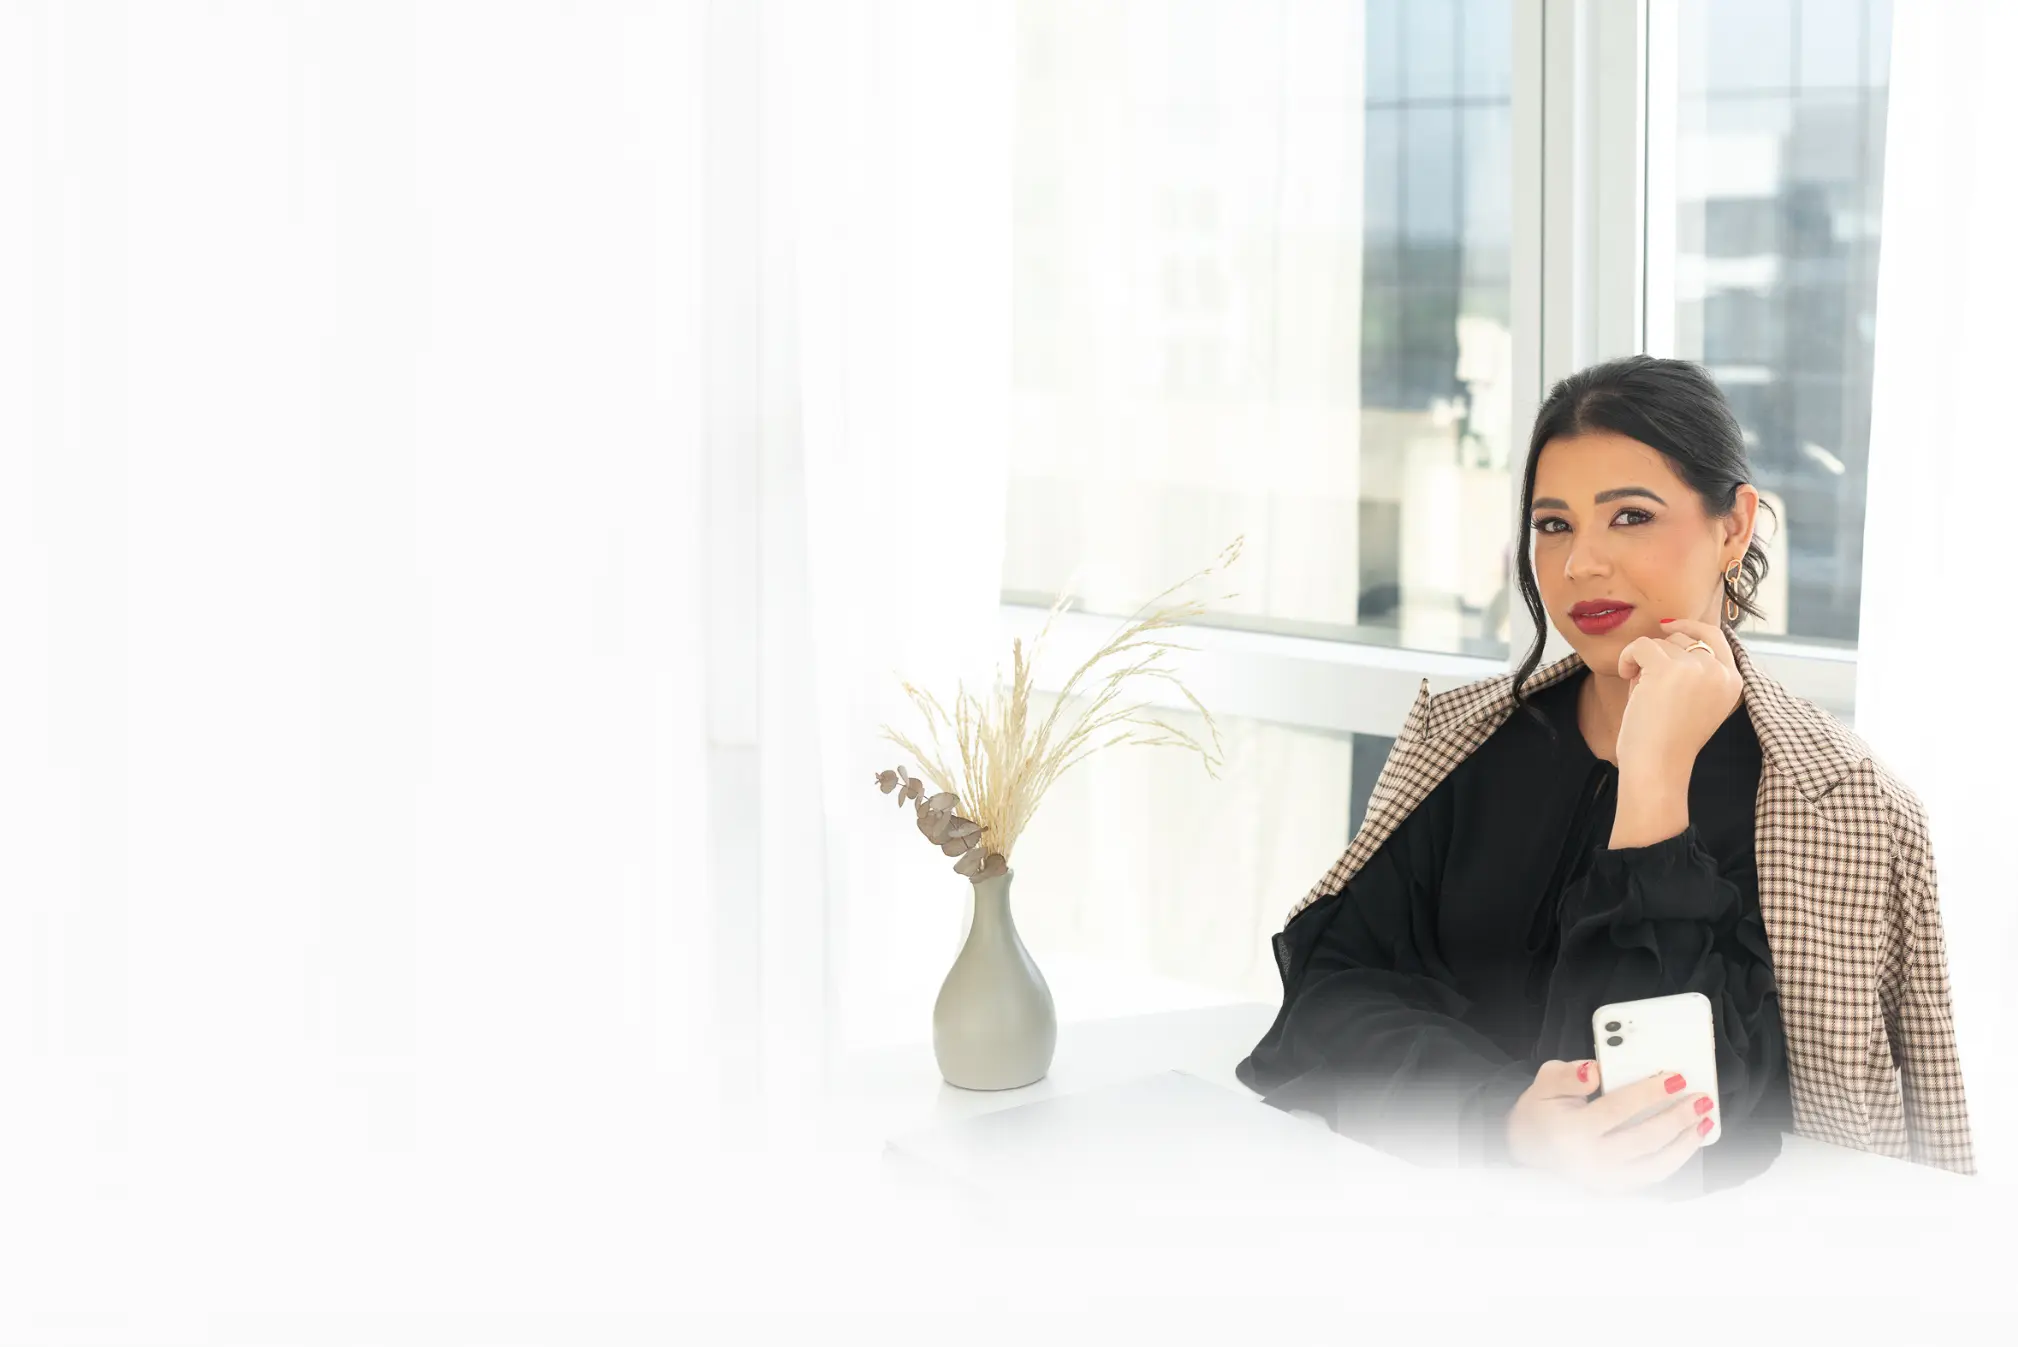
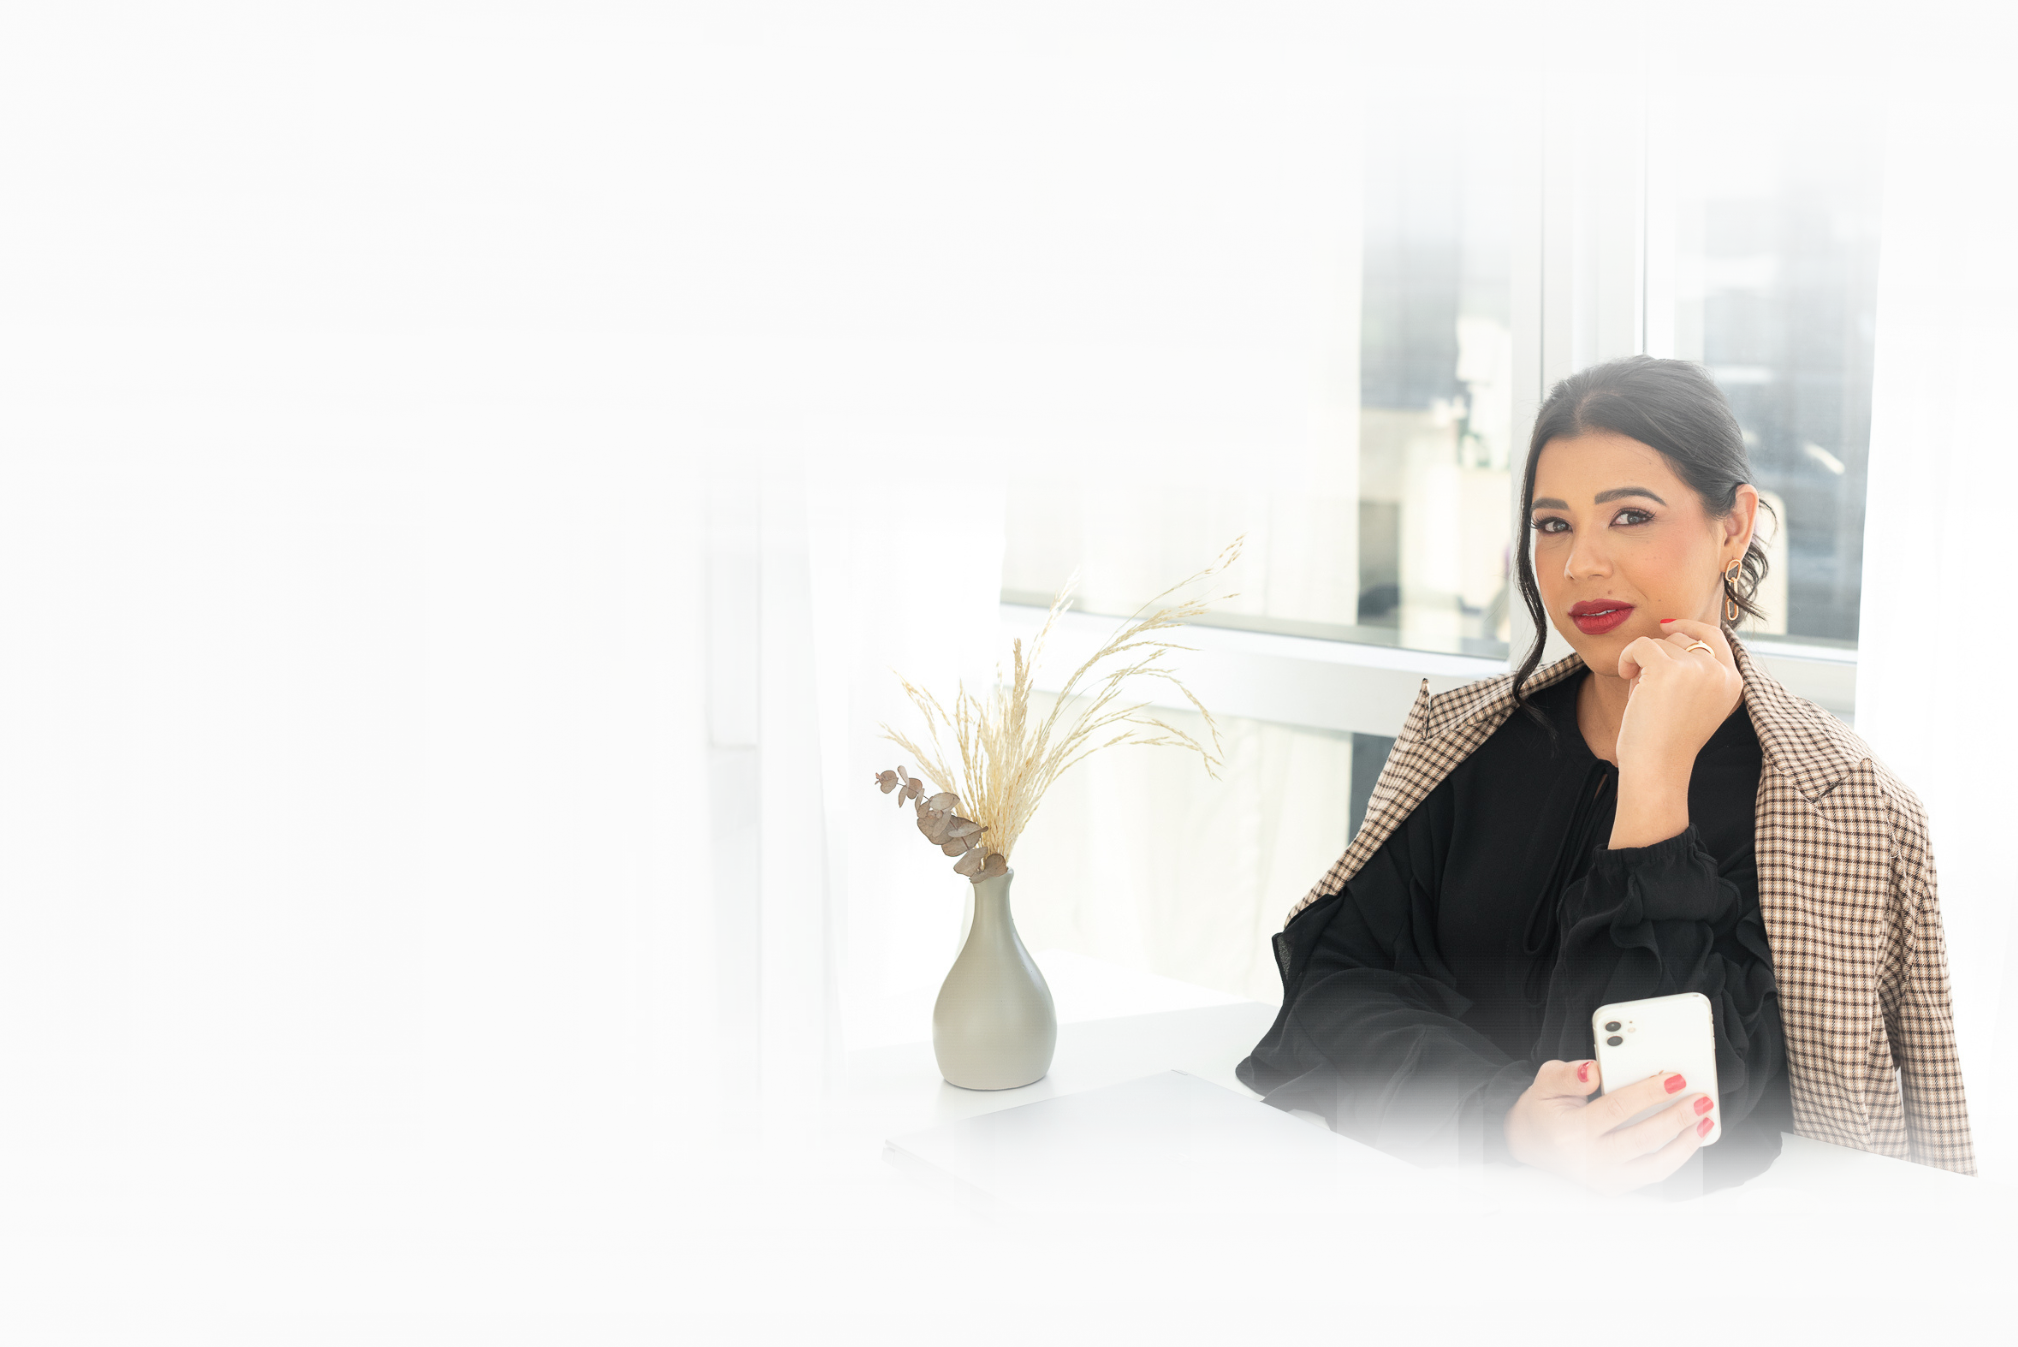
Feat: create faq section and footer

Changed region(s): [[0.6556, 0.0, 0.9366, 0.4053]]

diff --git a/index.html b/index.html
@@ -6,6 +6,9 @@
   <link rel="stylesheet" href="styles.css">
   <link rel="preconnect" href="https://fonts.googleapis.com">
   <link rel="preconnect" href="https://fonts.gstatic.com" crossorigin>
+  <link rel="shortcut icon" href="./assets/Logo Lorena Santos.svg" type="image/x-icon">
+  <link href="https://cdn.jsdelivr.net/npm/bootstrap@5.3.3/dist/css/bootstrap.min.css" rel="stylesheet" integrity="sha384-QWTKZyjpPEjISv5WaRU9OFeRpok6YctnYmDr5pNlyT2bRjXh0JMhjY6hW+ALEwIH" crossorigin="anonymous">
+  <script src="https://cdn.jsdelivr.net/npm/bootstrap@5.3.3/dist/js/bootstrap.bundle.min.js" integrity="sha384-YvpcrYf0tY3lHB60NNkmXc5s9fDVZLESaAA55NDzOxhy9GkcIdslK1eN7N6jIeHz" crossorigin="anonymous"></script>
   <link href="https://fonts.googleapis.com/css2?family=Zain:wght@200;300;400;700;800;900&display=swap" rel="stylesheet">
   <link rel="stylesheet" href="https://cdn.jsdelivr.net/npm/bootstrap-icons@1.11.3/font/bootstrap-icons.min.css">
   <title>Lorena Santos Consultoria</title>
@@ -13,7 +16,8 @@
 <body>
   <section class="hero-section">
     <div class="container">
-      <h1>Lorena Santos</h1>
+      <!-- <h1>Lorena Santos</h1> -->
+      <img src="./assets/Logo Lorena Santos.svg" alt="" id="logo">
       <h3>A partir de agora, seu maior problema será ter clientes demais.</h3>
       <p>Aumente o seu número de vendas e seja a primeira opção dos seus clientes, através de uma parceria duradoura eficaz.</p>
       <button type="button" class="btn-cta">Quero mais resultados</button>
@@ -151,8 +155,155 @@
     <p>Além da atuação no mercado digital, atuou também por mais de 10 anos no mercado varejista, colaborando com empresas multinacionais, onde durante esse período estudou e aplicou as técnicas do Marketing Digital. Tais experiências consolidam sua competência na área de vendas, marketing e pessoas.
       Formada em programação neurolinguística, também atuou nos cargos de liderança, o que traduz em competência sobre o que diz respeito ao comportamento humano.
       <strong>TRANSPARÊNCIA, RESPONSABILIDADE E EVOLUÇÃO CONTÍNUA</strong> são os valores norteiam todas as suas ações. Praticante de esportes, acredita que a mesma vitalidade e energia envolvida nos esportes são aplicadas também nos negócios, o que faz com que tenha os resultados gerados.
-      </p>
+    </p>
+    <img src="assets//quem-e-lorena-santos.webp" alt="Lorena Santos de roupa preta, com um blaze xadrez sobreposto aos ombros olhando para a câmera com o celular em mãos" id="who-is-lorena-santos">
   </section>
 
+  <section class="section faq">
+    <h2>Perguntas frequentes</h2>
+    <div class="accordion accordion-flush" id="accordionFlushExample">
+      <div class="accordion-item">
+        <h2 class="accordion-header">
+          <button class="accordion-button collapsed" type="button" data-bs-toggle="collapse" data-bs-target="#flush-collapseOne" aria-expanded="false" aria-controls="flush-collapseOne">
+            Será que preciso mesmo fazer anúncios online?
+          </button>
+        </h2>
+        <div id="flush-collapseOne" class="accordion-collapse collapse" data-bs-parent="#accordionFlushExample">
+          <div class="accordion-body">Primeiramente vamos entender o conceito por trás dos Anúncios Online (ou também conhecido como Tráfego Pago).
+            De forma simples, na internet existe milhares de pessoas navegando a todo momento e isso é o que chamamos de tráfego.
+            O Tráfego pago tem como objetivo direcionar as suas campanhas para as pessoas certas que estão navegando online para que elas possam realizar as ações que definimos, seja comprar um produto, entrar em contato, agendamento..
+            <br><br>
+            Certamente você quer parar de perder dinheiro e levar as pessoas certas para o seu negócio, não é mesmo?</div>
+        </div>
+      </div>
+
+      <div class="accordion-item">
+        <h2 class="accordion-header">
+          <button class="accordion-button collapsed" type="button" data-bs-toggle="collapse" data-bs-target="#flush-collapseTwo" aria-expanded="false" aria-controls="flush-collapseTwo">
+            Preciso aparecer nas redes sociais?
+          </button>
+        </h2>
+        <div id="flush-collapseTwo" class="accordion-collapse collapse" data-bs-parent="#accordionFlushExample">
+          <div class="accordion-body">
+            É preciso levar em consideração que a forma de consumo mudou desde que a internet se tornou presente durante todos os minutos de nosso dia a dia.
+            <br><br>
+            Quando se trata de construir um negócio de sucesso, é crucial encontrar plataformas em que seu público esteja presente.
+            <br><br>
+            E quanto mais você se conectar, se relacionar com o seu público, maiores são o reconhecimento da sua marca, além de você construir o que é mais valioso: conhecer as preferências do seu público.
+          </div>
+        </div>
+      </div>
+
+      <div class="accordion-item">
+        <h2 class="accordion-header">
+          <button class="accordion-button collapsed" type="button" data-bs-toggle="collapse" data-bs-target="#flush-collapseThree" aria-expanded="false" aria-controls="flush-collapseThree">
+            O que é necessário para começar a investir em anúncios?
+          </button>
+        </h2>
+        <div id="flush-collapseThree" class="accordion-collapse collapse" data-bs-parent="#accordionFlushExample">
+          <div class="accordion-body">
+            O primeiro passo é ter clareza sobre a sua meta e/ou objetivos do seu negócio. A partir de então, é hora de alinhar as expectativas comigo, a sua gestora de tráfego, para que eu possa ter acesso a todas as informações e documentos da sua empresa e então começar a traçar as estratégias direcionadas para o seu público.
+          </div>
+        </div>
+      </div>
+
+      <div class="accordion-item">
+        <h2 class="accordion-header">
+          <button class="accordion-button collapsed" type="button" data-bs-toggle="collapse" data-bs-target="#flush-collapseFour" aria-expanded="false" aria-controls="flush-collapseFour">
+            Preciso ter um site para anunciar?
+          </button>
+        </h2>
+        <div id="flush-collapseFour" class="accordion-collapse collapse" data-bs-parent="#accordionFlushExample">
+          <div class="accordion-body">
+            Idealmente sim. Toda empresa que possui um site gera muito mais confiança e credibilidade com seus clientes, além de poder contar um pouco mais da história da empresa, você tem a oportunidade de direcionar o seu cliente para outras informações importantes.
+            <br><br>
+            Caso a sua empresa ainda não tenha um site próprio existe ainda a possibilidade de Landing Pages que são muito eficientes para gerar conversões.
+          </div>
+        </div>
+      </div>
+
+      <div class="accordion-item">
+        <h2 class="accordion-header">
+          <button class="accordion-button collapsed" type="button" data-bs-toggle="collapse" data-bs-target="#flush-collapseFive" aria-expanded="false" aria-controls="flush-collapseFive">
+            Mas afinal, qual a diferença entre um site e uma Landing Page? Qual é melhor?
+          </button>
+        </h2>
+        <div id="flush-collapseFive" class="accordion-collapse collapse" data-bs-parent="#accordionFlushExample">
+          <div class="accordion-body">
+            Existem alguma diferenças entre um site "convencional", também conhecido como site institucional, para a Landing Page, desde o objetivo até a estrutura.
+            <br><br>
+            Um site é uma ferramenta de comunicação da empresa como o público, toda sua estrutura é feita para suprir essa necessidade.
+            <br><br>
+            Já uma landing page é estrutura apenas com elementos essenciais e estratégicos de comunicação persuasiva direcionada para um objetivo específico.
+            <br><br>
+            Site e landing page são ferramentas diferentes que não substituiem umas as outras. Elas são complementares e atendem a demandas diferentes de uma estratégia de marketing digital.
+            <br><br>
+            Por isso, se você quer resultados satisfatórios para os diferentes indicadores de marketing digital, considere a criação de um site e utilize landing pages de acordo com a sua estratégia.
+          </div>
+        </div>
+      </div>
+
+      <div class="accordion-item">
+        <h2 class="accordion-header">
+          <button class="accordion-button collapsed" type="button" data-bs-toggle="collapse" data-bs-target="#flush-collapseSix" aria-expanded="false" aria-controls="flush-collapseSix">
+            Qual a melhor opção para o meu negócio? Facebook Ads ou Google Ads?
+          </button>
+        </h2>
+        <div id="flush-collapseSix" class="accordion-collapse collapse" data-bs-parent="#accordionFlushExample">
+          <div class="accordion-body">
+            Na maioria dos negócios digitais as duas são necessárias, pois uma complementa a outra, porém é preciso estar atento uma vez que cada plataforma possui públicos e funcionalidades diferentes.
+            <br><br>
+            Sendo assim, a melhor plataforma é aquela que conecta com o seu público.
+          </div>
+        </div>
+      </div>
+
+      <div class="accordion-item">
+        <h2 class="accordion-header">
+          <button class="accordion-button collapsed" type="button" data-bs-toggle="collapse" data-bs-target="#flush-collapseSeven" aria-expanded="false" aria-controls="flush-collapseSeven">
+            Quando vou começar a ver o resultado das minhas campanhas?
+          </button>
+        </h2>
+        <div id="flush-collapseSeven" class="accordion-collapse collapse" data-bs-parent="#accordionFlushExample">
+          <div class="accordion-body">
+            Como acontece com qualquer outra estratégia, existe uma curva de aprendizagem e no caso de anúncios online são realizados muitos testes antes de termos uma campanha extremamente performática.
+            <br><br>
+            De modo geral, uma estratégia de anúncios online costuma ter seu amadurecimento entre 3 e 6 meses.
+          </div>
+        </div>
+      </div>
+
+      <div class="accordion-item">
+        <h2 class="accordion-header">
+          <button class="accordion-button collapsed" type="button" data-bs-toggle="collapse" data-bs-target="#flush-collapseEight" aria-expanded="false" aria-controls="flush-collapseEight">
+            Qual o valor mínimo de investimento?
+          </button>
+        </h2>
+        <div id="flush-collapseEight" class="accordion-collapse collapse" data-bs-parent="#accordionFlushExample">
+          <div class="accordion-body">
+            É importante ter em mente que o retorno das campanhas serão diretamente proporcionais ao valor investido, uma vez que com um investimento maior mais plataformas entregarão seu conteúdo para pessoas cada vez mais selecionadas.
+            <br><br>
+            O valor mínimo recomendado é de <strong>R$ 30,00 por dia</strong>, ou seja, <strong>R$ 900,00 por mês</strong> somente para as plataformas de anúncios, não inclusos os serviços de gestão de anúncios.
+            <br><br>
+            Se você acredita no seu negócio, a pergunta que deve ser feita é: Qual o máximo que posso investir para obter os melhores resultados?
+          </div>
+        </div>
+      </div>
+
+    </div>
+
+    <h3>ELEVE OS RESULTADOS DA SUA EMPRESA E TENHA MAIS LUCRO ATRAVÉS DAS ESTRATÉGIAS DIGITAIS.</h3>
+    <button type="button" class="btn-cta">Quero mais resultados</button>
+  </section>
+
+  <footer>
+    <img src="./assets/Logo Lorena Santos Footer.svg" alt="Logo Lorena Santos Tráfego Pago" id="logo-footer">
+    <p>Copyright &copy; 2024 - Lorena Santos. Todos os direitos reservados.</p>
+    <div>
+      <i class="bi bi-whatsapp"></i>
+      <i class="bi bi-envelope-at"></i>
+      <i class="bi bi-instagram"></i>
+    </div>
+  </footer>
 </body>
 </html>

diff --git a/styles.css b/styles.css
@@ -11,6 +11,7 @@ body{
   height: 100dvh;
   background-color: #fbfbfb;
   overflow-x: hidden;
+  user-select: none;
 }
 
 .hero-section{
@@ -313,7 +314,12 @@ body{
   .container{
     justify-content: flex-end;
     gap: 35px;
-    padding-top: 35vh;
+    padding-top: 30vh;
+  }
+
+  .container #logo{
+    width: 45%;
+    margin: 0 auto;
   }
 
   .container h1{
@@ -475,7 +481,7 @@ body{
 
   @keyframes slideUp {
     from{
-      transform: translateY(100%);
+      transform: translateY(120%);
       opacity: 0;
     }
     to{
@@ -525,8 +531,61 @@ body{
 
   .lorena-santos p,
   .lorena-santos strong{
+    width: 95%;
     font-size: 2rem;
-    letter-spacing: .7px;
     text-align: justify;
+  }
+
+  #who-is-lorena-santos{
+    width: 150%;
+    transform: translateX(-50px) translateY(-20px);
+  }
+
+  .accordion-flush{
+    width: 100%;
+  }
+
+  .accordion-button[type="button"]{
+    font-size: 2rem;
+  }
+
+  .accordion-button[type="button"]:not(.collapsed) {
+    background-color: #D91149;
+    color: #fff;
+    box-shadow: none;
+}
+
+  .accordion-body{
+    font-size: 2rem;
+  }
+
+  .faq h3{
+    font-size: 2rem;
+    text-align: center;
+    font-weight: bolder;
+    margin-top: 20px;
+  }
+
+  footer{
+    width: 100%;
+    display: flex;
+    flex-direction: column;
+    align-items: center;
+    background-color: #4F1941;
+    color: #fff;
+  }
+
+  #logo-footer{
+    width: 20%;
+  }
+
+  footer p{
+    font-size: 1.5rem;
+    font-weight: bold;
+  }
+
+  footer i{
+    font-size: 2.5rem;
+    margin-right: 10px;
   }
 }
